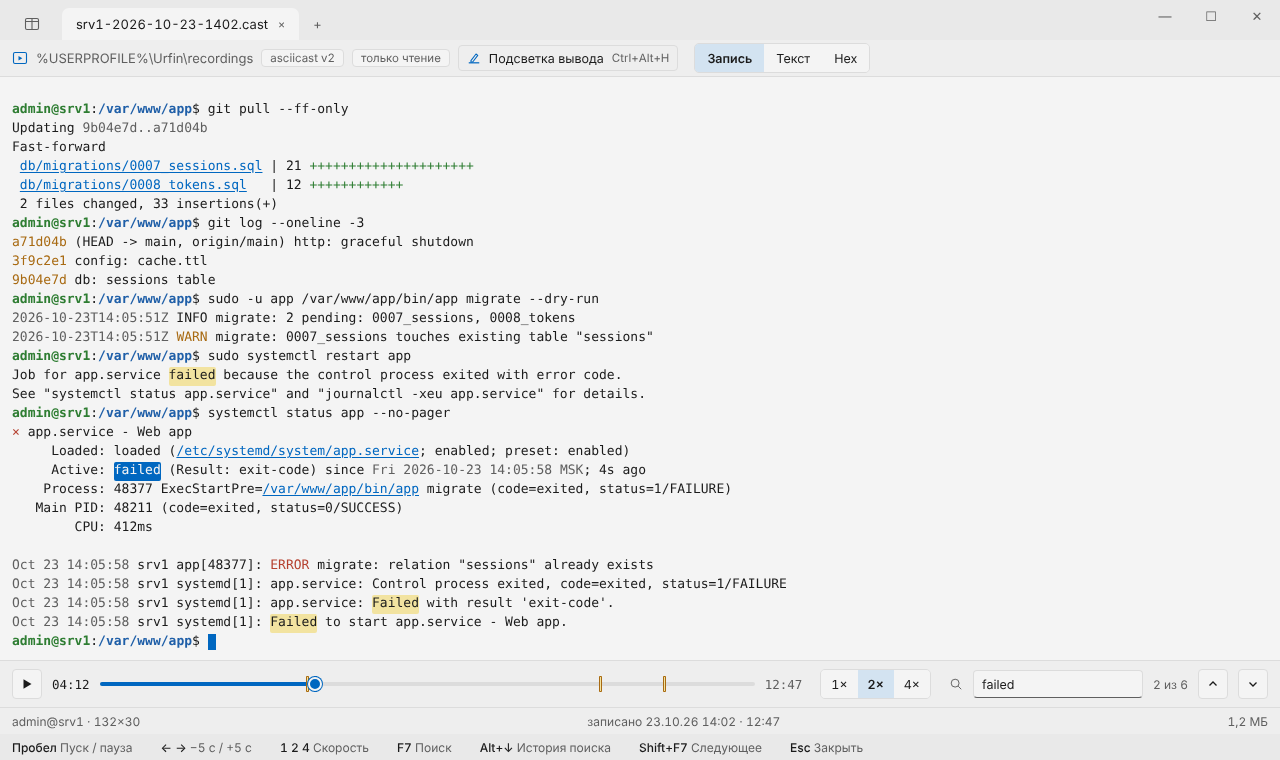
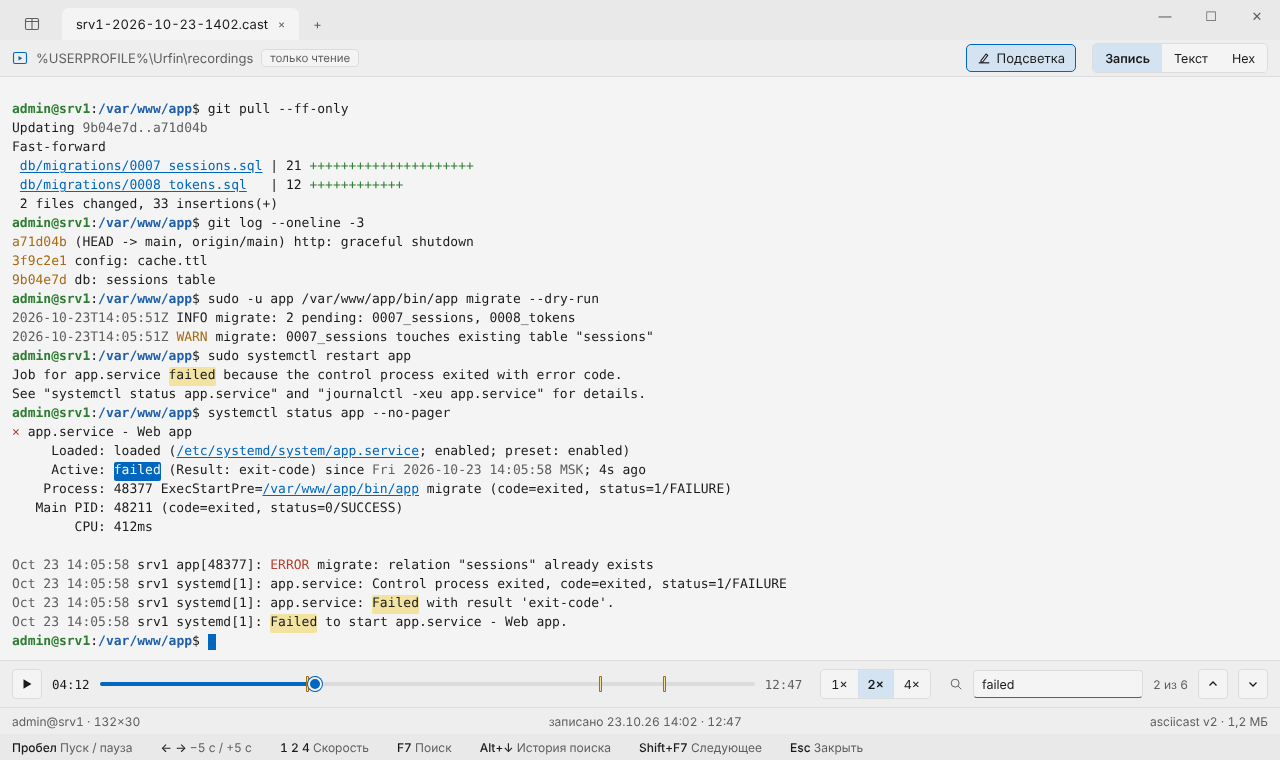
design: recording viewer follows the viewer pattern — file left, view settings right, type in status
Claude-Session: https://claude.ai/code/session_013ZpcYnbJMYkHW4aMDDmFTq

diff --git a/docs/design/window.dc.html b/docs/design/window.dc.html
@@ -99,9 +99,8 @@ body{margin:0}
 <div style="height: 36px; flex: none; display: flex; align-items: center; gap: 8px; padding: 0 12px; border-bottom: 1px solid {{t.b}}; background: {{t.h}}">
 <span style="display: inline-flex; color: {{t.a}}"><svg width="16" height="16" viewBox="0 0 16 16" aria-hidden="true"><rect x="1.5" y="2.5" width="13" height="11" rx="1.5" fill="none" stroke="currentColor" stroke-width="1.1"></rect><path d="M6.5 6v4.5l3.8-2.25z" fill="currentColor"></path></svg></span>
 <span style="color: {{t.s}}">%USERPROFILE%\Urfin\recordings</span>
-<span style="{{tagStyle}}">asciicast v2</span>
 <span style="{{tagStyle}}">только чтение</span>
-<span role="status" style="{{stChipN}}"><span style="display: inline-flex; color: {{t.a}}"><svg width="14" height="14" viewBox="0 0 16 16" aria-hidden="true"><path d="M2 13.5h12" stroke="currentColor" stroke-width="1.4"></path><path d="M4.5 11l5.8-7.6 2 1.6-5.8 7.6H4.5z" fill="none" stroke="currentColor" stroke-width="1.2" stroke-linejoin="round"></path></svg></span><span>Подсветка вывода</span><span style="color: {{t.s}}; font-size: 11.5px">Ctrl+Alt+H</span></span>
+<button type="button" aria-pressed="true" title="Подсветка вывода (Ctrl+Alt+H)" style="margin-left: auto; height: 28px; display: inline-flex; align-items: center; gap: 6px; padding: 0 10px; border: 1px solid {{t.a}}; border-radius: 5px; background: {{t.c}}; color: {{t.ct}}; font: inherit"><svg width="14" height="14" viewBox="0 0 16 16" aria-hidden="true"><path d="M2 13.5h12" stroke="currentColor" stroke-width="1.4"></path><path d="M4.5 11l5.8-7.6 2 1.6-5.8 7.6H4.5z" fill="none" stroke="currentColor" stroke-width="1.2" stroke-linejoin="round"></path></svg>Подсветка</button>
 <div style="margin-left: 8px; display: flex; border: 1px solid {{t.b}}; border-radius: 5px; overflow: hidden">
 <sc-for list="{{stViewSeg}}" as="vs" hint-placeholder-count="3"><button type="button" style="{{vs.style}}">{{vs.label}}</button></sc-for>
 </div>
@@ -3342,7 +3341,7 @@ const STATUS = {
 sshpair: ["ssh.exe · ключ ed25519 из агента","папка: /var/www/app ↔ панель","UTF-8 · 79×18"],
 sshmulti: ["Группа: 3 сеанса из 4","первая команда подтверждена в 14:05","UTF-8 · 136×31"],
 sshrec: ["Запись: %USERPROFILE%\\Urfin\\recordings\\srv1-2026-10-23-1402.cast","1,2 МБ","asciicast v2"],
-sshrecview: ["admin@srv1 · 132×30","записано 23.10.26 14:02 · 12:47","1,2 МБ"],
+sshrecview: ["admin@srv1 · 132×30","записано 23.10.26 14:02 · 12:47","asciicast v2 · 1,2 МБ"],
 termhl: ["pwsh 7.5 · интеграция с оболочкой","","Скроллбэк 1 204 строки"],
 sftppanel: ["current → releases/42","Выделено 0 из 12","admin@srv1.corp.local · ssh-ed25519 · ключ из агента (Pageant)"],
 sftplost: ["current → releases/42","Выделено 0 из 12","admin@srv1.corp.local · ssh-ed25519 · ключ из агента (Pageant)"],

diff --git a/docs/design/DESIGN.md b/docs/design/DESIGN.md
@@ -11,7 +11,7 @@
 - Без модальных окон: всё, что спрашивает, — **встроенная строка внизу**, она **накрывает** нижнюю часть панелей (список не перестраивается; если курсор оказался под строкой — список прокручивается так, чтобы курсор был виден). Исключение — job-бар: живёт долго, поэтому **занимает место** над командной строкой и сдвигает панели.
 - **Одна информация — одно место** (№61): имя файла — во вкладке; путь — в заголовке экрана/панели; размер, кодировка, переводы строк, тип — в статус-строке; переключатели режимов — в заголовке экрана; клавиши встроенной строки — подписями на её кнопках и **не** повторяются в keybar (keybar в это время показывает только дополнительные клавиши: Tab, F3 и т. п.).
 - **Автодополнение — во всех полях ввода** (№70): пути, маски, имена, команды, поиск; «мешочек» от поля, правила и клавиши — как в командной строке (`screen-cmdcomplete.png`); Alt+↓ — история поля. **История — источник подсказок везде, где Урфин её хранит** (хосты, пути, маски, имена, поиск, команды): в списке вариантов — значок часов и «история · когда»; сырой ввод SSH-терминала — история самой оболочки, не Урфина.
-- **Состояние сеанса терминала** (мультивыполнение, запись; на утверждении): чипы в пустом заголовке окна слева, рядом с местом для меток контекста (как «Администратор»): высота 26, `warning_bg`, рамка `context_remote`, значок 14, текст 12,5, действие (Выйти Esc) — в чипе через разделитель, замок политики — серым; терминал не сдвигается. Сначала предупреждения (`warning_bg`), за ними режимы — нейтральный чип (`header`, рамка `border`): «Подсветка вывода Ctrl+Alt+H»; в статусе это не дублируется (№61). Касается любого терминала на весь экран — SSH и локального. В режиме «панель + терминал» те же чипы — в шапке терминала рядом с «ssh srv1 ▾». Где заголовок окна занят табами (просмотр записи F3), чипы — в шапке просмотрщика рядом с метками файла. Правило одно: чипы состояния — в ближайшей свободной шапке над выводом, вывод не сдвигается.
+- **Состояние сеанса терминала** (мультивыполнение, запись; на утверждении): чипы в пустом заголовке окна слева, рядом с местом для меток контекста (как «Администратор»): высота 26, `warning_bg`, рамка `context_remote`, значок 14, текст 12,5, действие (Выйти Esc) — в чипе через разделитель, замок политики — серым; терминал не сдвигается. Сначала предупреждения (`warning_bg`), за ними режимы — нейтральный чип (`header`, рамка `border`): «Подсветка вывода Ctrl+Alt+H»; в статусе это не дублируется (№61). Касается любого терминала на весь экран — SSH и локального. В режиме «панель + терминал» те же чипы — в шапке терминала рядом с «ssh srv1 ▾». Просмотр записи (F3) — не терминал, а просмотрщик: по его образцу — слева файл (путь, «только чтение»), справа настройки показа (кнопка-переключатель «Подсветка», Запись / Текст / Hex), тип и размер — в статусе (№61).
 - **Keybar показывает все сочетания экрана** (№88): если на экране работают сочетания с модификаторами (Ctrl+Alt+H и т. п.), они выводятся в keybar; заблокированное политикой — не выводится.
 - **Адрес сервера** (№87): везде `sftp://<профиль>/путь`; полный `user@host` — в подсказке пути и строке состояния.
 - **Всплывающие объекты — с тенью** (№65): «мешочек» целиком (корешок + список), контекстное меню, плашки — тень `shadow` (смещение 8, размытие 16 + 1/3); без тени они сливаются с панелью. Есть от чего — «мешочек» с корешком из самого якоря (ячейка заголовка, путь, кнопка); нечем привязать — плашка без корешка у места вызова.
@@ -122,7 +122,7 @@
 | `screen-sshpair.png` | Панель + терминал: справа сверху панель сервера, под ней терминал (шапка с «ssh srv1 ▾»); строки ввода Урфина нет — ввод сырой (S6 §3); подсветка вывода: успех `added`, ошибка `danger`, WARN `context_remote`, пути/IP/URL — подчёркнуты `accent`, даты/хэши `secondary`; цвета самой программы не трогаются | F-03 |
 | `screen-sshmulti.png` | Мультивыполнение: чип в заголовке окна «⚠ Ввод в N сеанса: … | Выйти Esc» (терминал не сдвигается); слева список сеансов с флажками; вывод — блоками по сеансам, «код N» (не 0 — `danger`); первая команда подтверждается | F-03 |
 | `screen-sshrec.png` | Запись сеанса: чип в заголовке окна (как у мультивыполнения) — значок записи `danger`, «Запись мм:сс», при обязательной — замок «обязательна · политика · TOML», иначе в чипе «Остановить Ctrl+Alt+R»; путь .cast — в статусе | F-03 |
-| `screen-sshrecview.png` | Просмотр записи (F3, asciicast v2): как просмотрщик — Запись / Текст / Hex; снизу ▶, время, шкала с метками совпадений, скорость 1×/2×/4×, поиск с историей и «N из M» | F-03 |
+| `screen-sshrecview.png` | Просмотр записи (F3): как просмотрщик — слева путь и «только чтение», справа «Подсветка» (вкл. — `cursor` + рамка `accent`) и Запись / Текст / Hex; «asciicast v2 · размер» — в статусе; снизу ▶, время, шкала с метками совпадений, скорость 1×/2×/4×, поиск с историей и «N из M» | F-03 |
 | `screen-termhl.png` | Подсветка вывода в локальном терминале (pwsh): те же правила, что у SSH; вкл./выкл. — Ctrl+Alt+H, режим — нейтральный чип в заголовке окна | F-03 |
 | `screen-settings-ssh.png` | Раздел «SSH»: вход (агент: авто / OpenSSH / Pageant), пароли (кэш — замок GPO, менеджер паролей и команда с подстановками), сеансы (переподключение, keep-alive, запись — замок TOML, папка, мультивыполнение), подсветка вывода и её правила-чипы | F-03 |
 | `screen-settings-conn.png` | Раздел «Подключения»: поиск + кнопки; таблица профилей (источник config/PuTTY — первая колонка, метки одной ширины; имя, хост, пользователь, вход, через, последнее), свойства выбранного, импорт | F-03 |
